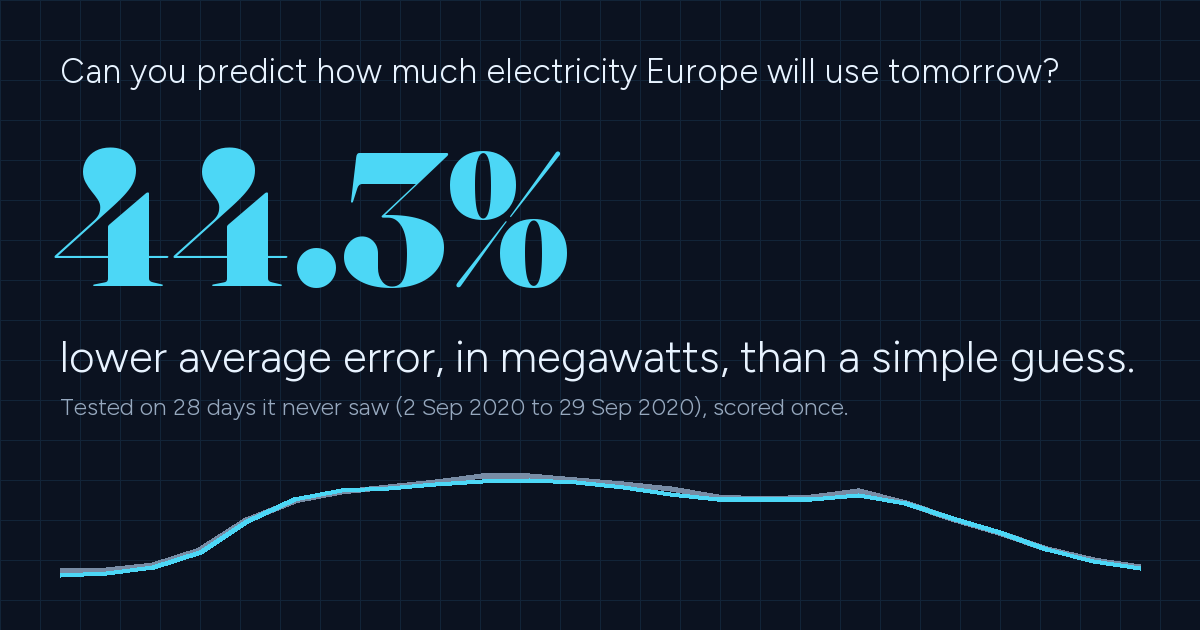
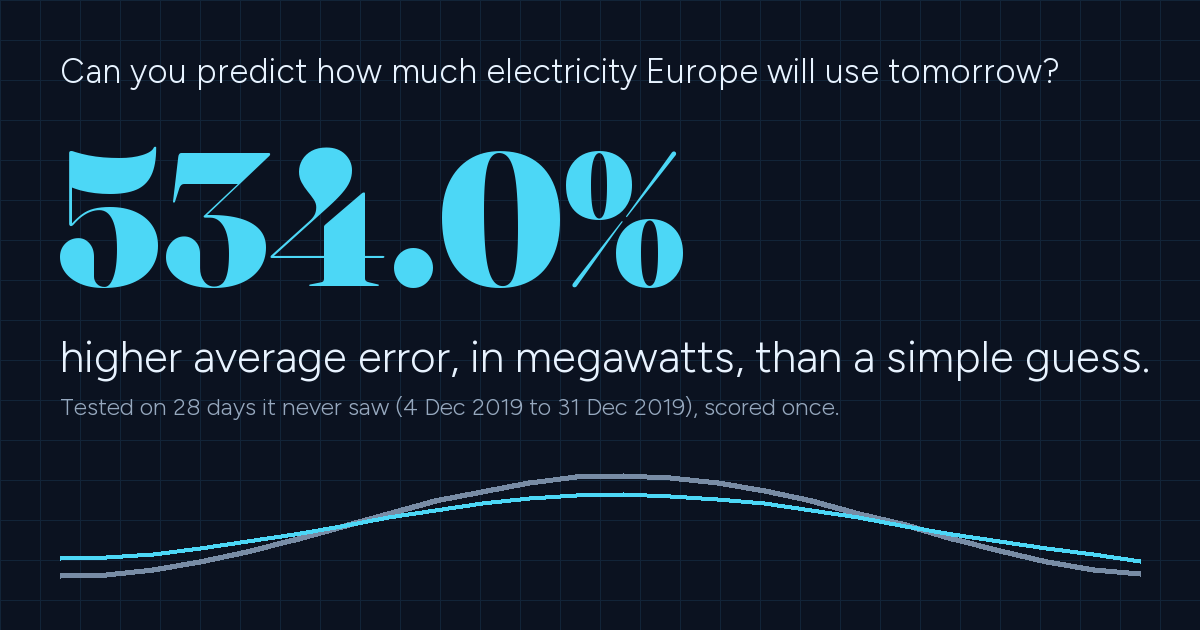
Isolate results folder in a test

diff --git a/tests/test_app_readme.py b/tests/test_app_readme.py
@@ -262,8 +262,9 @@ def test_fonts_are_embedded_not_served():
     assert "data:font/woff2;base64," in css and "/app/static" not in css
 
 
-def test_zone_table_spread_and_mind_checks():
+def test_zone_table_spread_and_mind_checks(tmp_path, monkeypatch):
     import app.app as a
+    monkeypatch.setattr(a, "RES", tmp_path)          # no heldout_intervals.csv here, so a real results folder cannot leak into this check
     df = _pred(14, zones=(1, 2, 3)).assign(split="held-out")
     df["ts"] = pd.to_datetime(df["ts"])
     zt = a.zone_table(df, {1: "Alpha"})
